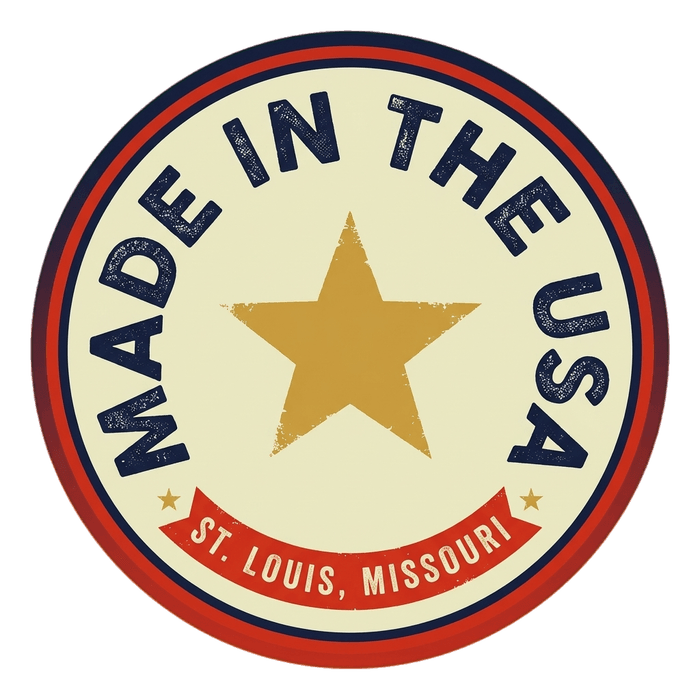
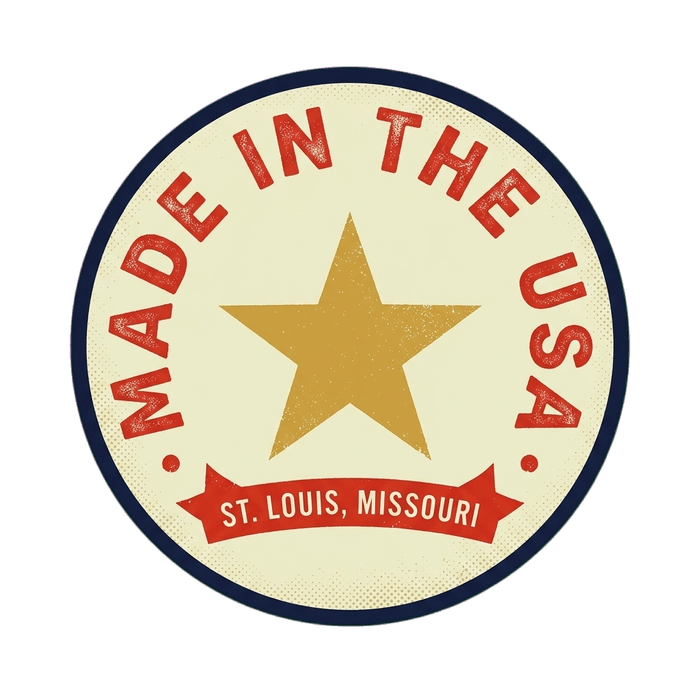
Fix offer-card alignment, cleaner Made-in-USA badge, remove AI-looking trust strip, list premade text bars
- OfferBlock: equal-height cards (items-stretch + flex-1 lists), drop scale stagger; dominance via badge/border/shadow
- Swap Made-in-USA badge to the cleaner-ring variant
- Remove the /buy 'Out around St. Louis' trust strip (read too AI)
- What's-in-the-kit now lists premade bottom-bar phrases (LAND OF THE FREE, HOME OF THE BRAVE, LET FREEDOM RING, STL, 314, SHOW-ME STATE) plus full A-Z/0-9

diff --git a/src/components/site/buy/OfferBlock.tsx b/src/components/site/buy/OfferBlock.tsx
@@ -49,17 +49,17 @@ export function OfferBlock() {
           One set, two ways to get it.
         </h2>
 
-        <div className="mt-10 grid items-start gap-6 lg:grid-cols-2">
+        <div className="mt-10 grid items-stretch gap-6 lg:grid-cols-2">
           {/* CARD A - single kit. Complete on its own. */}
           <div
-            className={`flex flex-col rounded-xl border bg-brand-cream-soft p-6 transition-colors ${
+            className={`flex h-full flex-col rounded-xl border bg-brand-cream-soft p-6 transition-colors ${
               !bundleSelected ? "border-brand-red" : "border-brand-navy/15"
             }`}
           >
             <h3 className="font-mkt-display text-xl font-bold uppercase tracking-tight text-brand-navy">
               {copy.buy.offer.single.title} - {formatUsd(offer.singlePrice)}
             </h3>
-            <ul className="mt-4 space-y-2 text-sm text-brand-ink/85">
+            <ul className="mt-4 flex-1 space-y-2 text-sm text-brand-ink/85">
               <li className="flex gap-2">
                 <span aria-hidden="true" className="text-brand-red">
                   ✓
@@ -91,7 +91,7 @@ export function OfferBlock() {
 
           {/* CARD B - bundle. Preselected, dominant, badged. */}
           <div
-            className={`relative flex flex-col rounded-xl border-2 bg-brand-cream-soft p-6 shadow-lg lg:scale-[1.03] ${
+            className={`relative flex h-full flex-col rounded-xl border-2 bg-brand-cream-soft p-6 shadow-lg ${
               bundleSelected ? "border-brand-red" : "border-brand-navy/25"
             }`}
           >
@@ -102,7 +102,7 @@ export function OfferBlock() {
             <h3 className="mt-2 font-mkt-display text-2xl font-bold uppercase tracking-tight text-brand-navy">
               {copy.buy.offer.bundle.title} - {formatUsd(offer.bundlePrice)}
             </h3>
-            <ul className="mt-4 space-y-2 text-sm text-brand-ink/85">
+            <ul className="mt-4 flex-1 space-y-2 text-sm text-brand-ink/85">
               {copy.buy.offer.bundle.items.map((item) => (
                 <li key={item} className="flex gap-2">
                   <span aria-hidden="true" className="text-brand-red">

diff --git a/src/content/copy.ts b/src/content/copy.ts
@@ -207,7 +207,8 @@ export const copy: Copy = {
       items: [
         "Frame rail that fits all standard US plates, installs once with your existing screws",
         "40+ tiles, more than you see in the photo",
-        "Full A-Z and 0-9 letter set for the bottom bar",
+        "Ready-made bottom-bar phrases: LAND OF THE FREE, HOME OF THE BRAVE, LET FREEDOM RING, STL, 314, and SHOW-ME STATE",
+        "Full A-Z and 0-9 letter set so you can spell anything you want",
         "Quick-start card",
       ],
       caption:

diff --git a/src/app/(site)/buy/page.tsx b/src/app/(site)/buy/page.tsx
@@ -11,7 +11,6 @@ import {
   WhatsInKit,
   HowItWorks,
   BuiltToLast,
-  TrustStrip,
   BuyFaq,
 } from "@/components/site/buy/StaticSections";
 
@@ -62,7 +61,6 @@ export default async function BuyPage({
       <WhatsInKit />
       <HowItWorks />
       <BuiltToLast />
-      <TrustStrip />
       <BuyFaq />
       {/* Spacer so the fixed mobile buy bar never overlaps the footer/FAQ. */}
       <div aria-hidden="true" className="h-20 lg:hidden" />